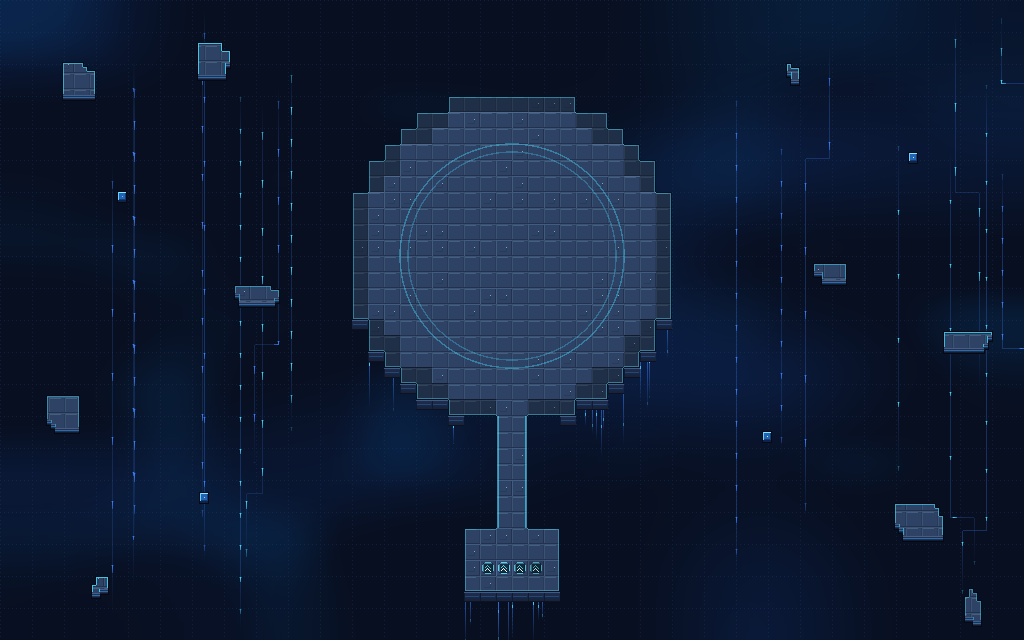
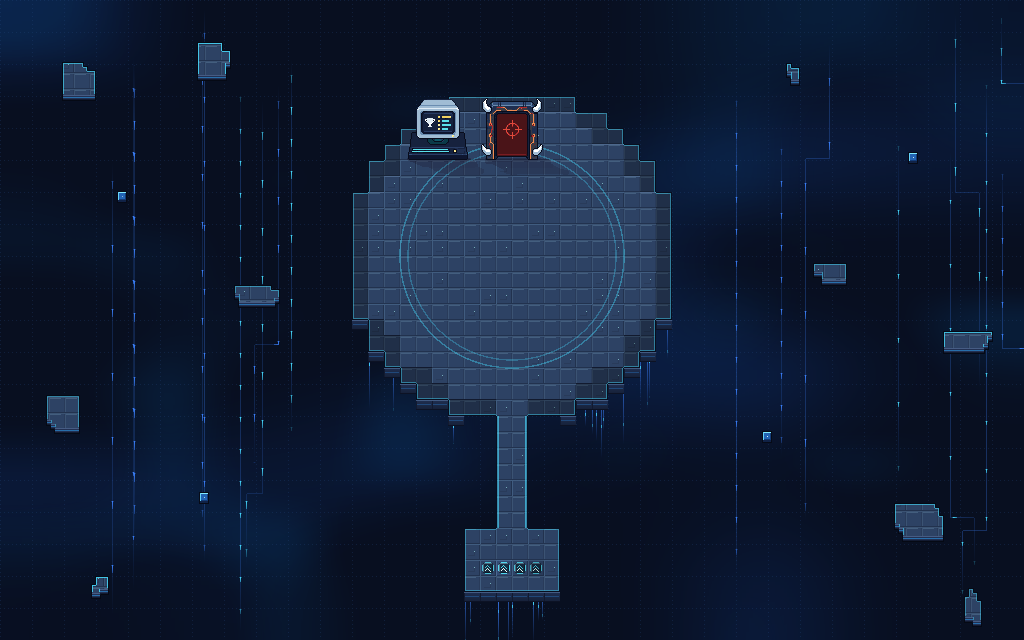
Karte 16 Neuaufbau Schritt 3: Firewall-Tor (wiederverwendet) auf der Achse, Computer 'Dungeon Records' (neu, PixelLab Objekt-Creator) links daneben, Bildschirm-Animationen
Claude-Session: https://claude.ai/code/session_01SaoYHKhnro4LFcPJqjaPsq

Changed region(s): [[0.375, 0.1562, 0.5312, 0.2812]]

diff --git a/tools/karte16_objekte.py b/tools/karte16_objekte.py
@@ -1,0 +1,59 @@
+"""Objekte fuer Karte 16 (The Network), Neuaufbau Schritt 3 - nach den Regeln aus CLAUDE.md.
+
+  python3 tools/karte16_bauen.py   (einmal ohne Objekte -> pixelhoehe.npy)
+  python3 tools/karte16_objekte.py && python3 tools/karte16_bauen.py
+
+- Firewall-Tor (wiederverwendet, PixelLab k16_tor/00 - entspricht dem Tor der Vorlage) oben auf der Plattform,
+  exakt auf der Achse (x = 512 px), 4 Kacheln breit wie das Pfeilfeld.
+- Computer 'Dungeon Records' (neu, PixelLab Objekt-Creator k16_computer/00, nach dem Bild des Nutzers) links vom Tor,
+  Fuss buendig auf derselben Reihe wie das Tor.
+"""
+import json, os, sys
+sys.path.insert(0, os.path.dirname(os.path.abspath(__file__)))
+import numpy as np
+from PIL import Image
+from karte04_objekte import saeubern
+
+ROOT = os.path.join(os.path.dirname(os.path.abspath(__file__)), '..')
+KARTE = os.path.join(ROOT, 'maps', 'karte16')
+OBJ = os.path.join(ROOT, 'assets', 'objekte', 'karte16')
+T = 16
+ACHSE = 32 * T
+FUSS = 9                                   # Fussreihe von Tor und Computer
+# (Quelle, Mitte x in px, Fussreihe, Animation)
+OBJEKTE = [
+    ('tor/00', ACHSE, FUSS, 'tor16'),
+    ('computer/00', ACHSE - 32 - 12 - 30, FUSS, 'bildschirm16'),   # 12 px Luft zum Tor
+]
+
+
+def main():
+    lvl = np.load(os.path.join(KARTE, 'pixelhoehe.npy'))
+    Hp, Wp = lvl.shape
+    os.makedirs(os.path.join(OBJ, 'sauber'), exist_ok=True)
+    objekte, belegt = [], np.zeros((Hp, Wp), bool)
+    for name, mitte, reihe, anim in OBJEKTE:
+        sp = saeubern(Image.open(os.path.join(OBJ, name + '.png')).convert('RGBA'))
+        datei = 'sauber/%s.png' % name.replace('/', '-')
+        sp.save(os.path.join(OBJ, datei))
+        a = np.array(sp.getchannel('A')) >= 128
+        zu = int(np.nonzero(a.any(axis=1))[0].max())
+        xs = np.nonzero(a.any(axis=0))[0]
+        x = int(round(mitte - (xs.min() + xs.max() + 1) / 2.0))
+        y = (reihe + 1) * T - 1 - zu
+        h_, w_ = a.shape
+        fuss = a.copy(); fuss[:max(0, zu + 1 - 2 * T)] = False     # untere zwei Kachelreihen
+        assert (lvl[y:y + h_, x:x + w_][fuss] == 2).all(), name + ': Fuss nicht ganz auf der Plattform'
+        assert not (belegt[y:y + h_, x:x + w_] & a).any(), name + ': ueberlappt'
+        g = np.zeros_like(belegt); g[y:y + h_, x:x + w_] = a
+        from PIL import ImageFilter
+        belegt |= np.array(Image.fromarray((g * 255).astype(np.uint8)).filter(ImageFilter.MaxFilter(5))) > 0
+        objekte.append({'datei': datei, 'basis': name, 'x': x, 'y': y, 'fuss': zu, 'kachel': [int(mitte // T), reihe],
+                        'ebene': 2, 'anim': anim, 'an_wand': True})   # an_wand: kein Erd-Bodenwall auf Metall
+        print('  %s: x %d-%d, y %d-%d' % (name, x, x + w_, y, y + h_))
+    json.dump(objekte, open(os.path.join(OBJ, 'platzierung.json'), 'w'), indent=0)
+    print('Karte 16: %d Objekte' % len(objekte))
+
+
+if __name__ == '__main__':
+    main()

diff --git a/tools/karte16_bauen.py b/tools/karte16_bauen.py
@@ -32,6 +32,45 @@ LEER = np.array([8, 15, 32], np.float32)          # Hintergrund der Vorlage
 kontur, mischen, puls = k15.kontur, k15.mischen, k15.puls
 
 
+def tor16(sp, frame, o):
+    """Firewall-Tor: nur der rote Bildschirm mit Fadenkreuz pulsiert, die orangen Leiterbahnen laufen als Lichtwelle
+    um den Rahmen. Rahmen und Hoerner bleiben unveraendert."""
+    a = np.array(sp).astype(np.float32)
+    r_, g_, b_, al = a[..., 0], a[..., 1], a[..., 2], a[..., 3]
+    p = puls(frame)
+    rot = (al > 0) & (r_ > 90) & (g_ < 70) & (b_ < 70)
+    a[rot, :3] *= 0.82 + 0.3 * p
+    orange = (al > 0) & (r_ > 180) & (g_ > 70) & (g_ < 190) & (b_ < 110)
+    ys, xs = np.nonzero(orange)
+    if len(ys):
+        cy, cx = a.shape[0] / 2, a.shape[1] / 2
+        w = (np.arctan2(ys - cy, xs - cx) / (2 * math.pi) + 0.5 - (frame or 0) / N_FRAMES) % 1.0
+        k = 0.8 + 0.4 * (w < 0.25)
+        a[ys, xs, :3] *= k[:, None]
+    return Image.fromarray(np.clip(a, 0, 255).astype(np.uint8))
+
+
+def bildschirm16(sp, frame, o):
+    """Computer 'Dungeon Records': nur der Bildschirm lebt - die cyan Balken flackern leicht nacheinander, die gelben
+    Punkte und das Gehaeuse-Laempchen blinken. Gehaeuse und Sockel bleiben ruhig."""
+    a = np.array(sp).astype(np.float32)
+    r_, g_, b_, al = a[..., 0], a[..., 1], a[..., 2], a[..., 3]
+    f = frame or 0
+    cyan = (al > 0) & (b_ > 170) & (g_ > 150) & (r_ < 140)
+    ys, xs = np.nonzero(cyan)
+    if len(ys):
+        zeile = (ys // 4) % 4
+        k = np.where(zeile == f % 4, 1.18, 0.95)
+        a[ys, xs, :3] *= k[:, None]
+    gelb = (al > 0) & (r_ > 190) & (g_ > 150) & (b_ < 110)
+    a[gelb, :3] *= (1.12, 0.85, 1.0, 0.9)[f % 4]
+    return Image.fromarray(np.clip(a, 0, 255).astype(np.uint8))
+
+
+k4.TEILANIM['tor16'] = tor16
+k4.TEILANIM['bildschirm16'] = bildschirm16
+
+
 def kachel(n):
     return np.array(Image.open(os.path.join(BASIS, n)).convert('RGB'))
 

diff --git a/tools/pixellab_objekte.py b/tools/pixellab_objekte.py
@@ -1378,6 +1378,10 @@ OBJEKTGRUPPEN_K16 = {
         'large web of black data cables stretched between two broken network pylons, glowing red nodes',
         'giant red-brown horn pair rising from a corrupted floor crater, black and red glitch blocks around',
     ]},
+    'k16_computer': {'size': 64, 'items': [   # Nutzer-Vorlage 'Dungeon Records'
+        'retro computer records terminal: a boxy light grey-blue CRT monitor with a thick bezel, the screen glows dark blue and shows a small white trophy cup icon on the left and three list rows with yellow bullet points and cyan bars, the monitor sits on a short teal neck on a wide dark navy console base with cyan glowing stripes and a small yellow light, standing upright',
+        'data archive computer: square pale steel monitor with dark blue screen showing a trophy icon and a list of records with yellow dots, mounted on a low dark teal pedestal with glowing cyan trim, standing upright',
+    ]},
     'k16_klein': {'size': 32, 'items': [
         'small golden data chip item lying on the floor, glowing softly',
         'small coil of dark cable lying on the floor',
